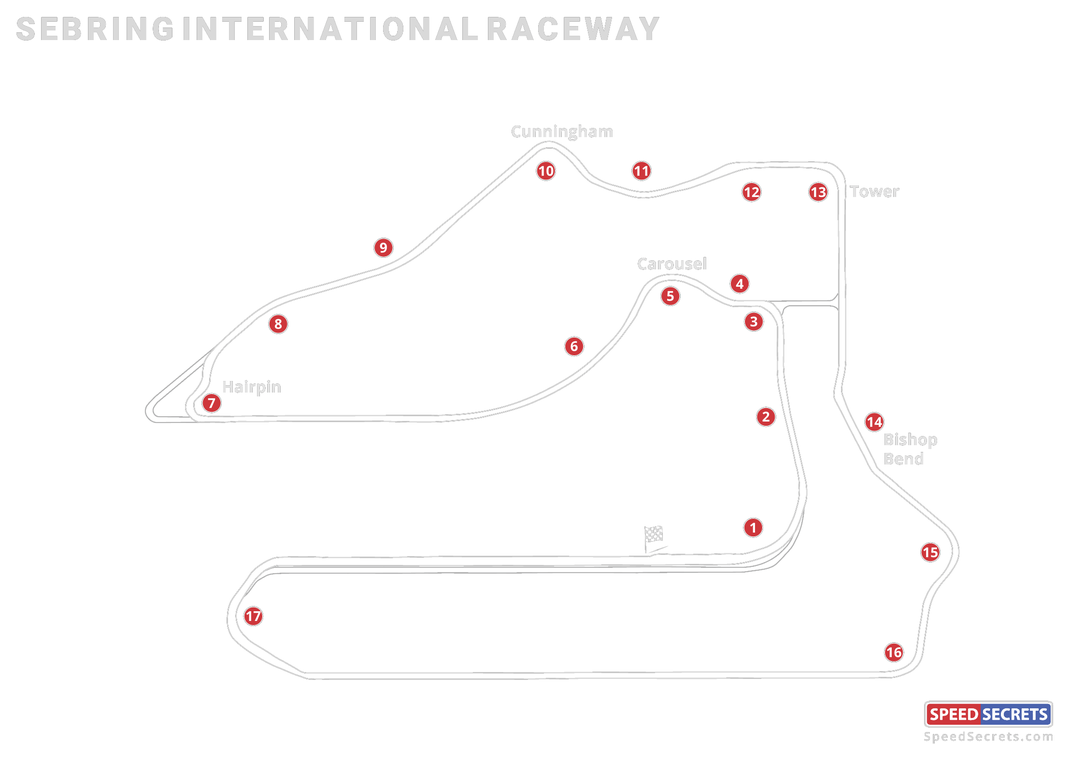
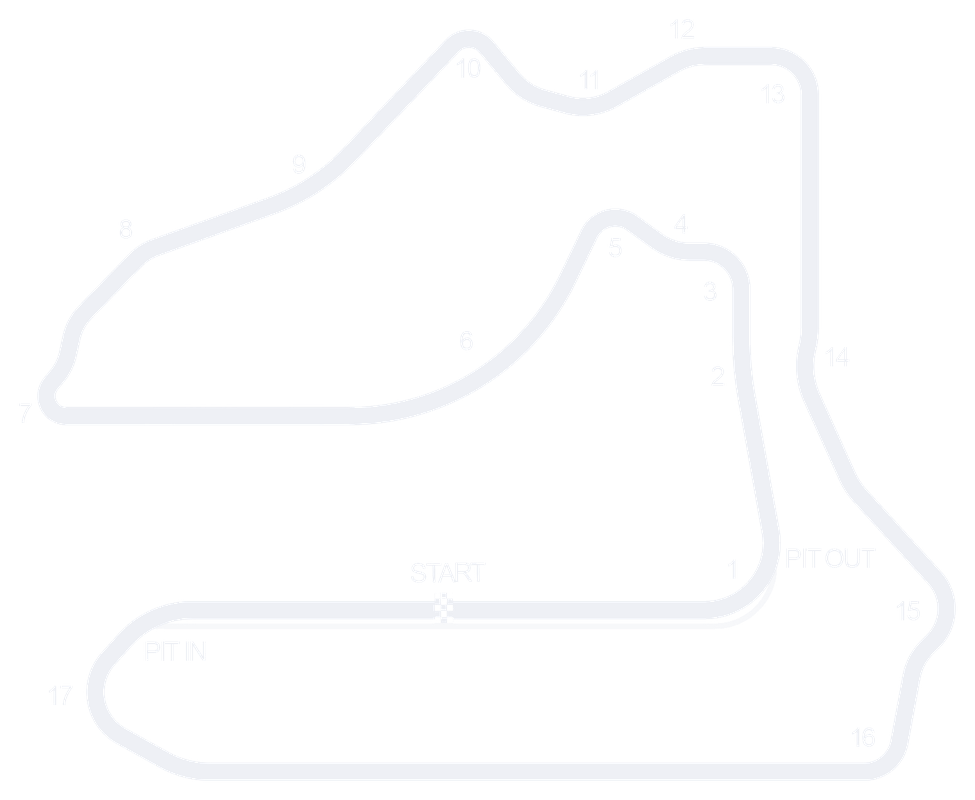
Sebring krokisi daha temiz sürümle değiştirildi (şeffaf, açık çizgi, filigransız) + ?v=3

diff --git a/src/App.jsx b/src/App.jsx
@@ -104,7 +104,7 @@ const SLOT_COLORS = { A: "#40D68C", B: "#F0604D", C: "#F2A33C", D: "#6694FF" };
 
 /* ---------- pist & araç seçimi ---------- */
 const ASSET = import.meta.env.BASE_URL + "assets/";
-const AV = "?v=2"; // görsel sürümü — dosya güncellenince artır (önbellek kırma)
+const AV = "?v=3"; // görsel sürümü — dosya güncellenince artır (önbellek kırma)
 const TRACKS = [
   { id: "lemans", name: "Le Mans" },
   { id: "spa", name: "Spa-Francorchamps" },
